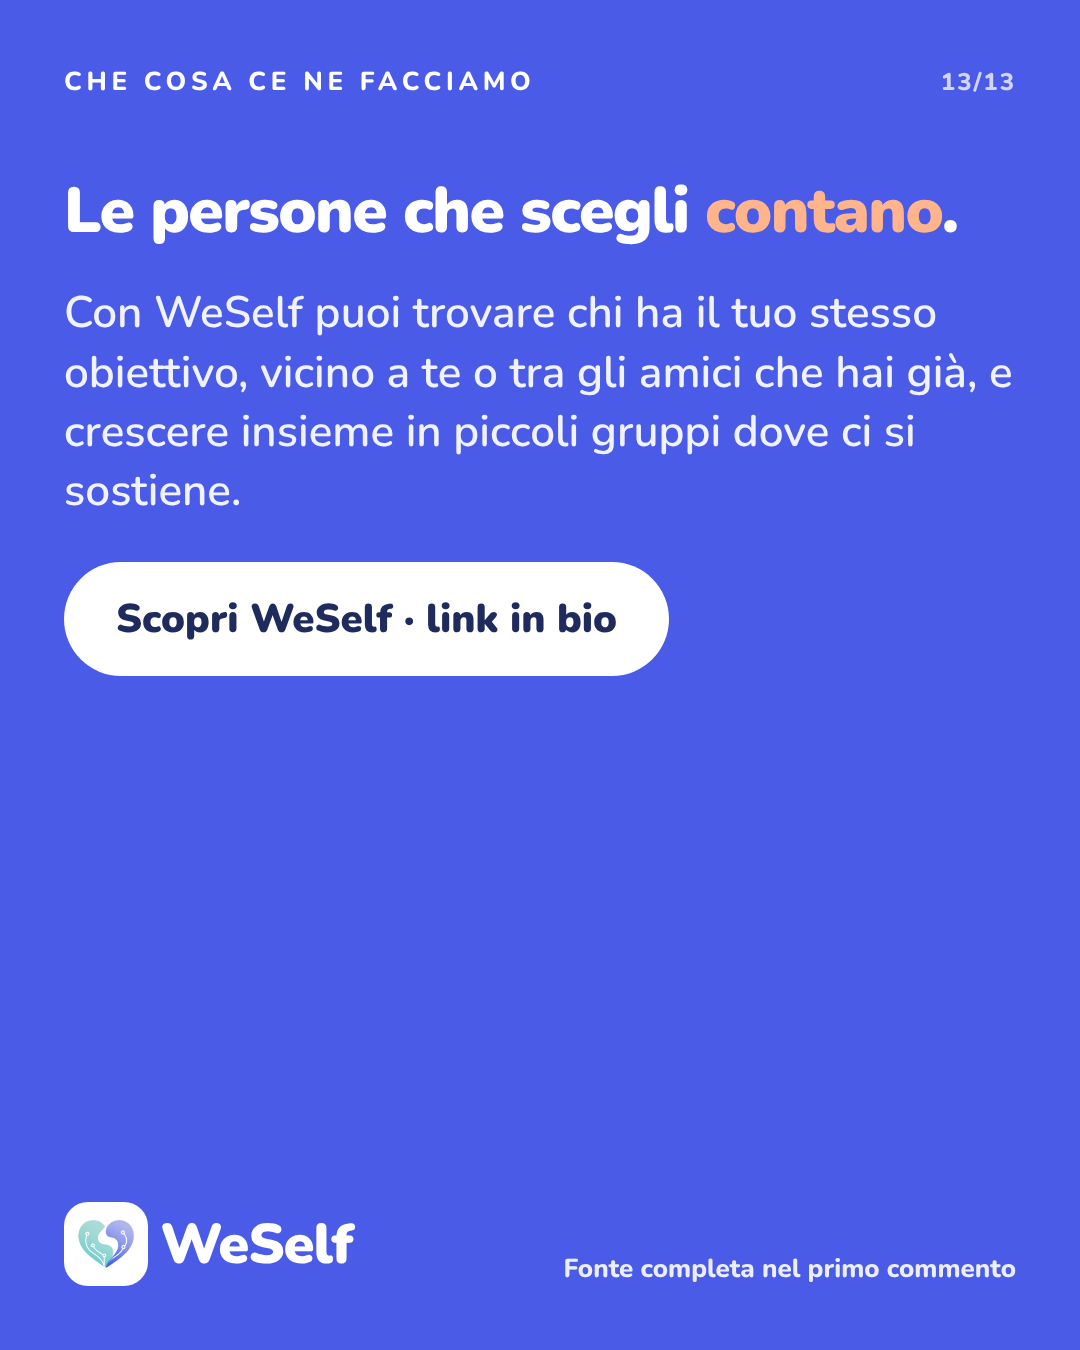
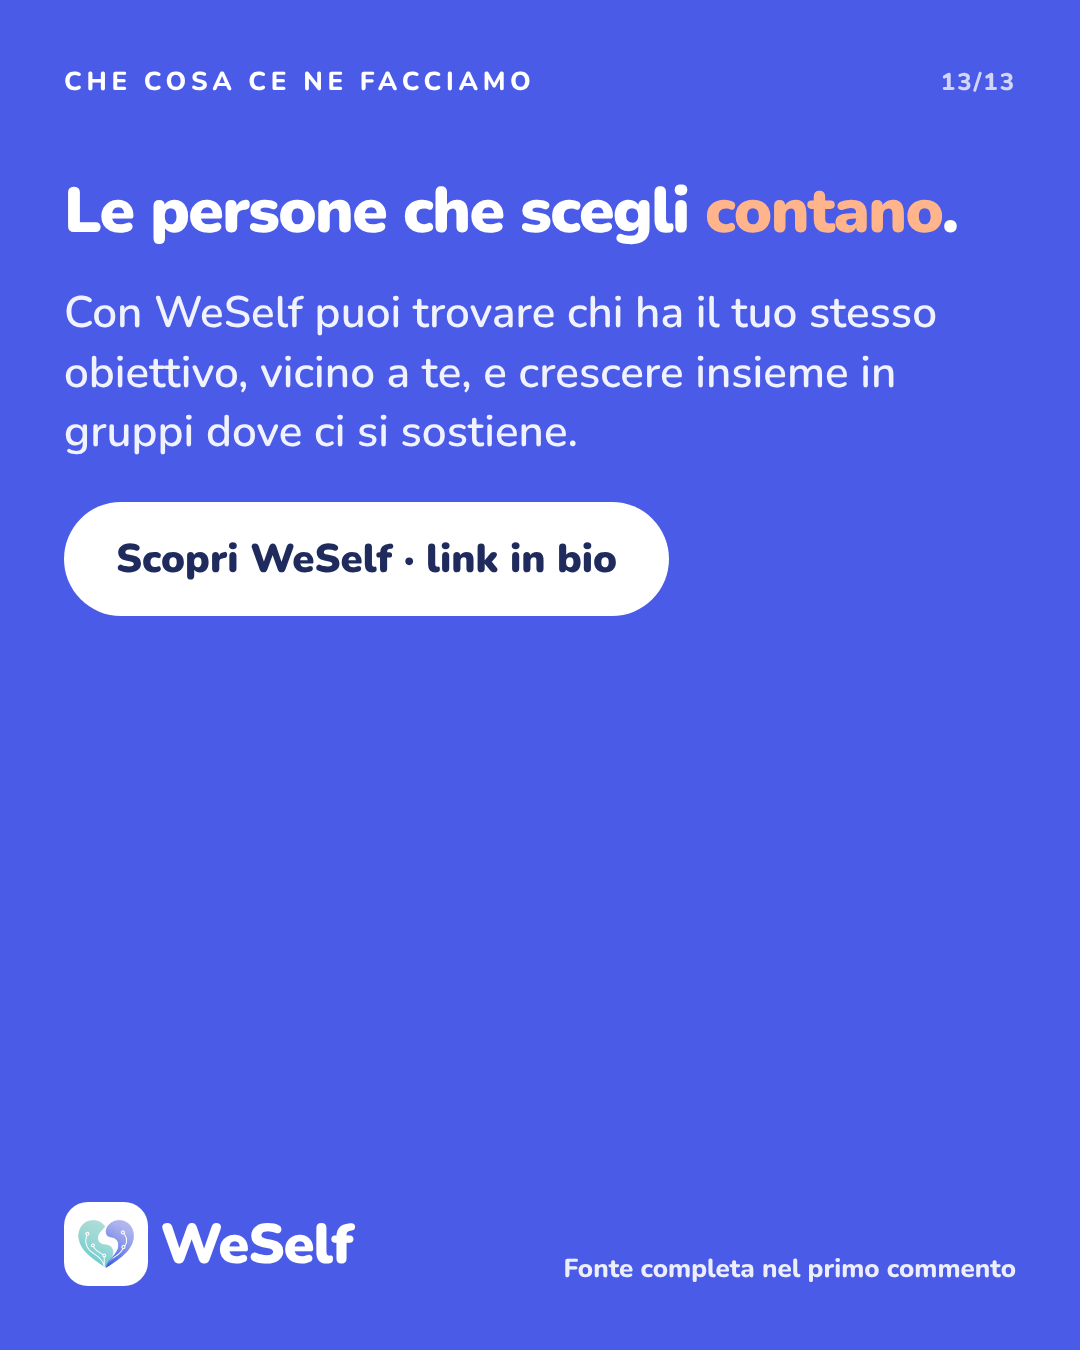
Mani-pulite: founder's editor edits (slides 3, 13)
Claude-Session: https://claude.ai/code/session_01KYQeP73Zvn8PeP6zhkL2Sc

Changed region(s): [[0.0611, 0.2489, 0.8861, 0.4978], [0.9167, 0.2489, 0.9472, 0.28]]

diff --git a/carosselli/mani-pulite/editor-testi.html b/carosselli/mani-pulite/editor-testi.html
@@ -259,7 +259,7 @@ svg.shape{position:absolute;z-index:1}
   <div class="stack" style="margin-top:44px;gap:24px">
     <p class="big" style="font-size:130px" data-e="s3-3">372</p>
     <p class="biglabel" data-e="s3-4">studenti dell'Università di Amsterdam, a coppie, per 30 turni di un gioco con un <span class="hl">dado</span>.</p>
-    <p class="mid" style="font-size:32px" data-e="s3-5">Ognuno vedeva il risultato del proprio dado su uno schermo e doveva dichiararlo. Se i due dichiaravano lo stesso numero, entrambi guadagnavano: di più, più il numero era alto. <br><br>I ricercatori potevano vedere chi diceva la verità, e i partecipanti lo sapevano. Ogni bugia, inoltre, toglieva soldi a una donazione in beneficenza.</p>
+    <p class="mid" style="font-size:32px" data-e="s3-5">Ognuno vedeva il risultato del proprio dado su uno schermo e doveva dichiararlo. Se i due dichiaravano lo stesso numero, entrambi guadagnavano.<br><br>I ricercatori potevano vedere chi diceva la verità, e i partecipanti lo sapevano. Ogni bugia, inoltre, toglieva soldi a una donazione in beneficenza.</p>
   </div>
   <p class="next" data-e="s3-6">Come si poteva mentire →</p>
   <div class="src"><b data-e="s3-7">FONTE</b><span data-e="s3-8"><em>Gross et al., 2018</em> · Psychological Science</span></div>
@@ -372,7 +372,7 @@ svg.shape{position:absolute;z-index:1}
   <div class="top"><p class="kicker" data-e="s13-1">Che cosa ce ne facciamo</p><div class="count" data-e="s13-2">13/13</div></div>
   <div class="stack" style="margin-top:80px">
     <h2 style="font-size:64px" data-e="s13-3">Le persone che scegli <span class="hl">contano</span>.</h2>
-    <p class="body" style="opacity:.92" data-e="s13-4">Con WeSelf puoi trovare chi ha il tuo stesso obiettivo, vicino a te o tra gli amici che hai già, e crescere insieme in piccoli gruppi dove ci si sostiene.</p>
+    <p class="body" style="opacity:.92" data-e="s13-4">Con WeSelf puoi trovare chi ha il tuo stesso obiettivo, vicino a te, e crescere insieme in gruppi dove ci si sostiene.</p>
     <span class="btn" data-e="s13-5">Scopri WeSelf · link in bio</span>
   </div>
   <div class="ctafoot">

diff --git a/carosselli/mani-pulite/slides.html b/carosselli/mani-pulite/slides.html
@@ -224,7 +224,7 @@ svg.shape{position:absolute;z-index:1}
   <div class="stack" style="margin-top:44px;gap:24px">
     <p class="big" style="font-size:130px">372</p>
     <p class="biglabel">studenti dell'Università di Amsterdam, a coppie, per 30 turni di un gioco con un <span class="hl">dado</span>.</p>
-    <p class="mid" style="font-size:32px">Ognuno vedeva il risultato del proprio dado su uno schermo e doveva dichiararlo. Se i due dichiaravano lo stesso numero, entrambi guadagnavano: di più, più il numero era alto. <br><br>I ricercatori potevano vedere chi diceva la verità, e i partecipanti lo sapevano. Ogni bugia, inoltre, toglieva soldi a una donazione in beneficenza.</p>
+    <p class="mid" style="font-size:32px">Ognuno vedeva il risultato del proprio dado su uno schermo e doveva dichiararlo. Se i due dichiaravano lo stesso numero, entrambi guadagnavano.<br><br>I ricercatori potevano vedere chi diceva la verità, e i partecipanti lo sapevano. Ogni bugia, inoltre, toglieva soldi a una donazione in beneficenza.</p>
   </div>
   <p class="next">Come si poteva mentire →</p>
   <div class="src"><b>FONTE</b><span><em>Gross et al., 2018</em> · Psychological Science</span></div>
@@ -357,7 +357,7 @@ svg.shape{position:absolute;z-index:1}
   <div class="top"><p class="kicker">Che cosa ce ne facciamo</p><div class="count">13/13</div></div>
   <div class="stack" style="margin-top:80px">
     <h2 style="font-size:64px">Le persone che scegli <span class="hl">contano</span>.</h2>
-    <p class="body" style="opacity:.92">Con WeSelf puoi trovare chi ha il tuo stesso obiettivo, vicino a te o tra gli amici che hai già, e crescere insieme in piccoli gruppi dove ci si sostiene.</p>
+    <p class="body" style="opacity:.92">Con WeSelf puoi trovare chi ha il tuo stesso obiettivo, vicino a te, e crescere insieme in gruppi dove ci si sostiene.</p>
     <span class="btn">Scopri WeSelf · link in bio</span>
   </div>
   <div class="ctafoot">

diff --git a/carosselli/mani-pulite/body.html b/carosselli/mani-pulite/body.html
@@ -149,7 +149,7 @@
   <div class="stack" style="margin-top:44px;gap:24px">
     <p class="big" style="font-size:130px">372</p>
     <p class="biglabel">studenti dell'Università di Amsterdam, a coppie, per 30 turni di un gioco con un <span class="hl">dado</span>.</p>
-    <p class="mid" style="font-size:32px">Ognuno vedeva il risultato del proprio dado su uno schermo e doveva dichiararlo. Se i due dichiaravano lo stesso numero, entrambi guadagnavano: di più, più il numero era alto. <br><br>I ricercatori potevano vedere chi diceva la verità, e i partecipanti lo sapevano. Ogni bugia, inoltre, toglieva soldi a una donazione in beneficenza.</p>
+    <p class="mid" style="font-size:32px">Ognuno vedeva il risultato del proprio dado su uno schermo e doveva dichiararlo. Se i due dichiaravano lo stesso numero, entrambi guadagnavano.<br><br>I ricercatori potevano vedere chi diceva la verità, e i partecipanti lo sapevano. Ogni bugia, inoltre, toglieva soldi a una donazione in beneficenza.</p>
   </div>
   <p class="next">Come si poteva mentire →</p>
   <div class="src"><b>FONTE</b><span><em>Gross et al., 2018</em> · Psychological Science</span></div>
@@ -282,7 +282,7 @@
   <div class="top"><p class="kicker">Che cosa ce ne facciamo</p><div class="count">13/13</div></div>
   <div class="stack" style="margin-top:80px">
     <h2 style="font-size:64px">Le persone che scegli <span class="hl">contano</span>.</h2>
-    <p class="body" style="opacity:.92">Con WeSelf puoi trovare chi ha il tuo stesso obiettivo, vicino a te o tra gli amici che hai già, e crescere insieme in piccoli gruppi dove ci si sostiene.</p>
+    <p class="body" style="opacity:.92">Con WeSelf puoi trovare chi ha il tuo stesso obiettivo, vicino a te, e crescere insieme in gruppi dove ci si sostiene.</p>
     <span class="btn">Scopri WeSelf · link in bio</span>
   </div>
   <div class="ctafoot">

diff --git a/carosselli/mani-pulite/kit-pubblicazione-mani-pulite.md b/carosselli/mani-pulite/kit-pubblicazione-mani-pulite.md
@@ -27,7 +27,7 @@ Mito o realtà? «Chi è onesto si allontana da chi imbroglia.» In questo studi
 
 I limiti: è un solo studio, in laboratorio, con studenti universitari; si giocava in forma anonima e per piccole somme; un gioco con un dado non è la vita reale.
 
-Un'onestà necessaria: lo studio riguarda un gioco di laboratorio sull'onestà, non WeSelf. Con WeSelf puoi trovare chi ha il tuo stesso obiettivo e crescere insieme in piccoli gruppi dove ci si sostiene.
+Un'onestà necessaria: lo studio riguarda un gioco di laboratorio sull'onestà, non WeSelf. Con WeSelf puoi trovare chi ha il tuo stesso obiettivo, vicino a te, e crescere insieme in gruppi dove ci si sostiene.
 
 Ti è mai capitato di accorgerti di un vantaggio «troppo bello per essere vero»? 👇
 
@@ -62,7 +62,7 @@ Come leggere i numeri: 71% e 29% sono le quote di persone classificate come «bu
 10. Mito o realtà? «Chi è onesto si allontana da chi imbroglia.» Mito.
 11. I limiti: un solo studio in laboratorio; anonimo e piccole somme; un gioco non è la vita; 8 sessioni.
 12. Prova così: chiediti da dove arriva un vantaggio; guarda con chi stai; scegli chi ti somiglia nei valori.
-13. Le persone che scegli contano. Con WeSelf trovi chi ha il tuo stesso obiettivo e piccoli gruppi dove ci si sostiene. Scopri WeSelf, link in bio.
+13. Le persone che scegli contano. Con WeSelf trovi chi ha il tuo stesso obiettivo, vicino a te, e gruppi dove ci si sostiene. Scopri WeSelf, link in bio.
 
 ## Note di affidabilità
 
